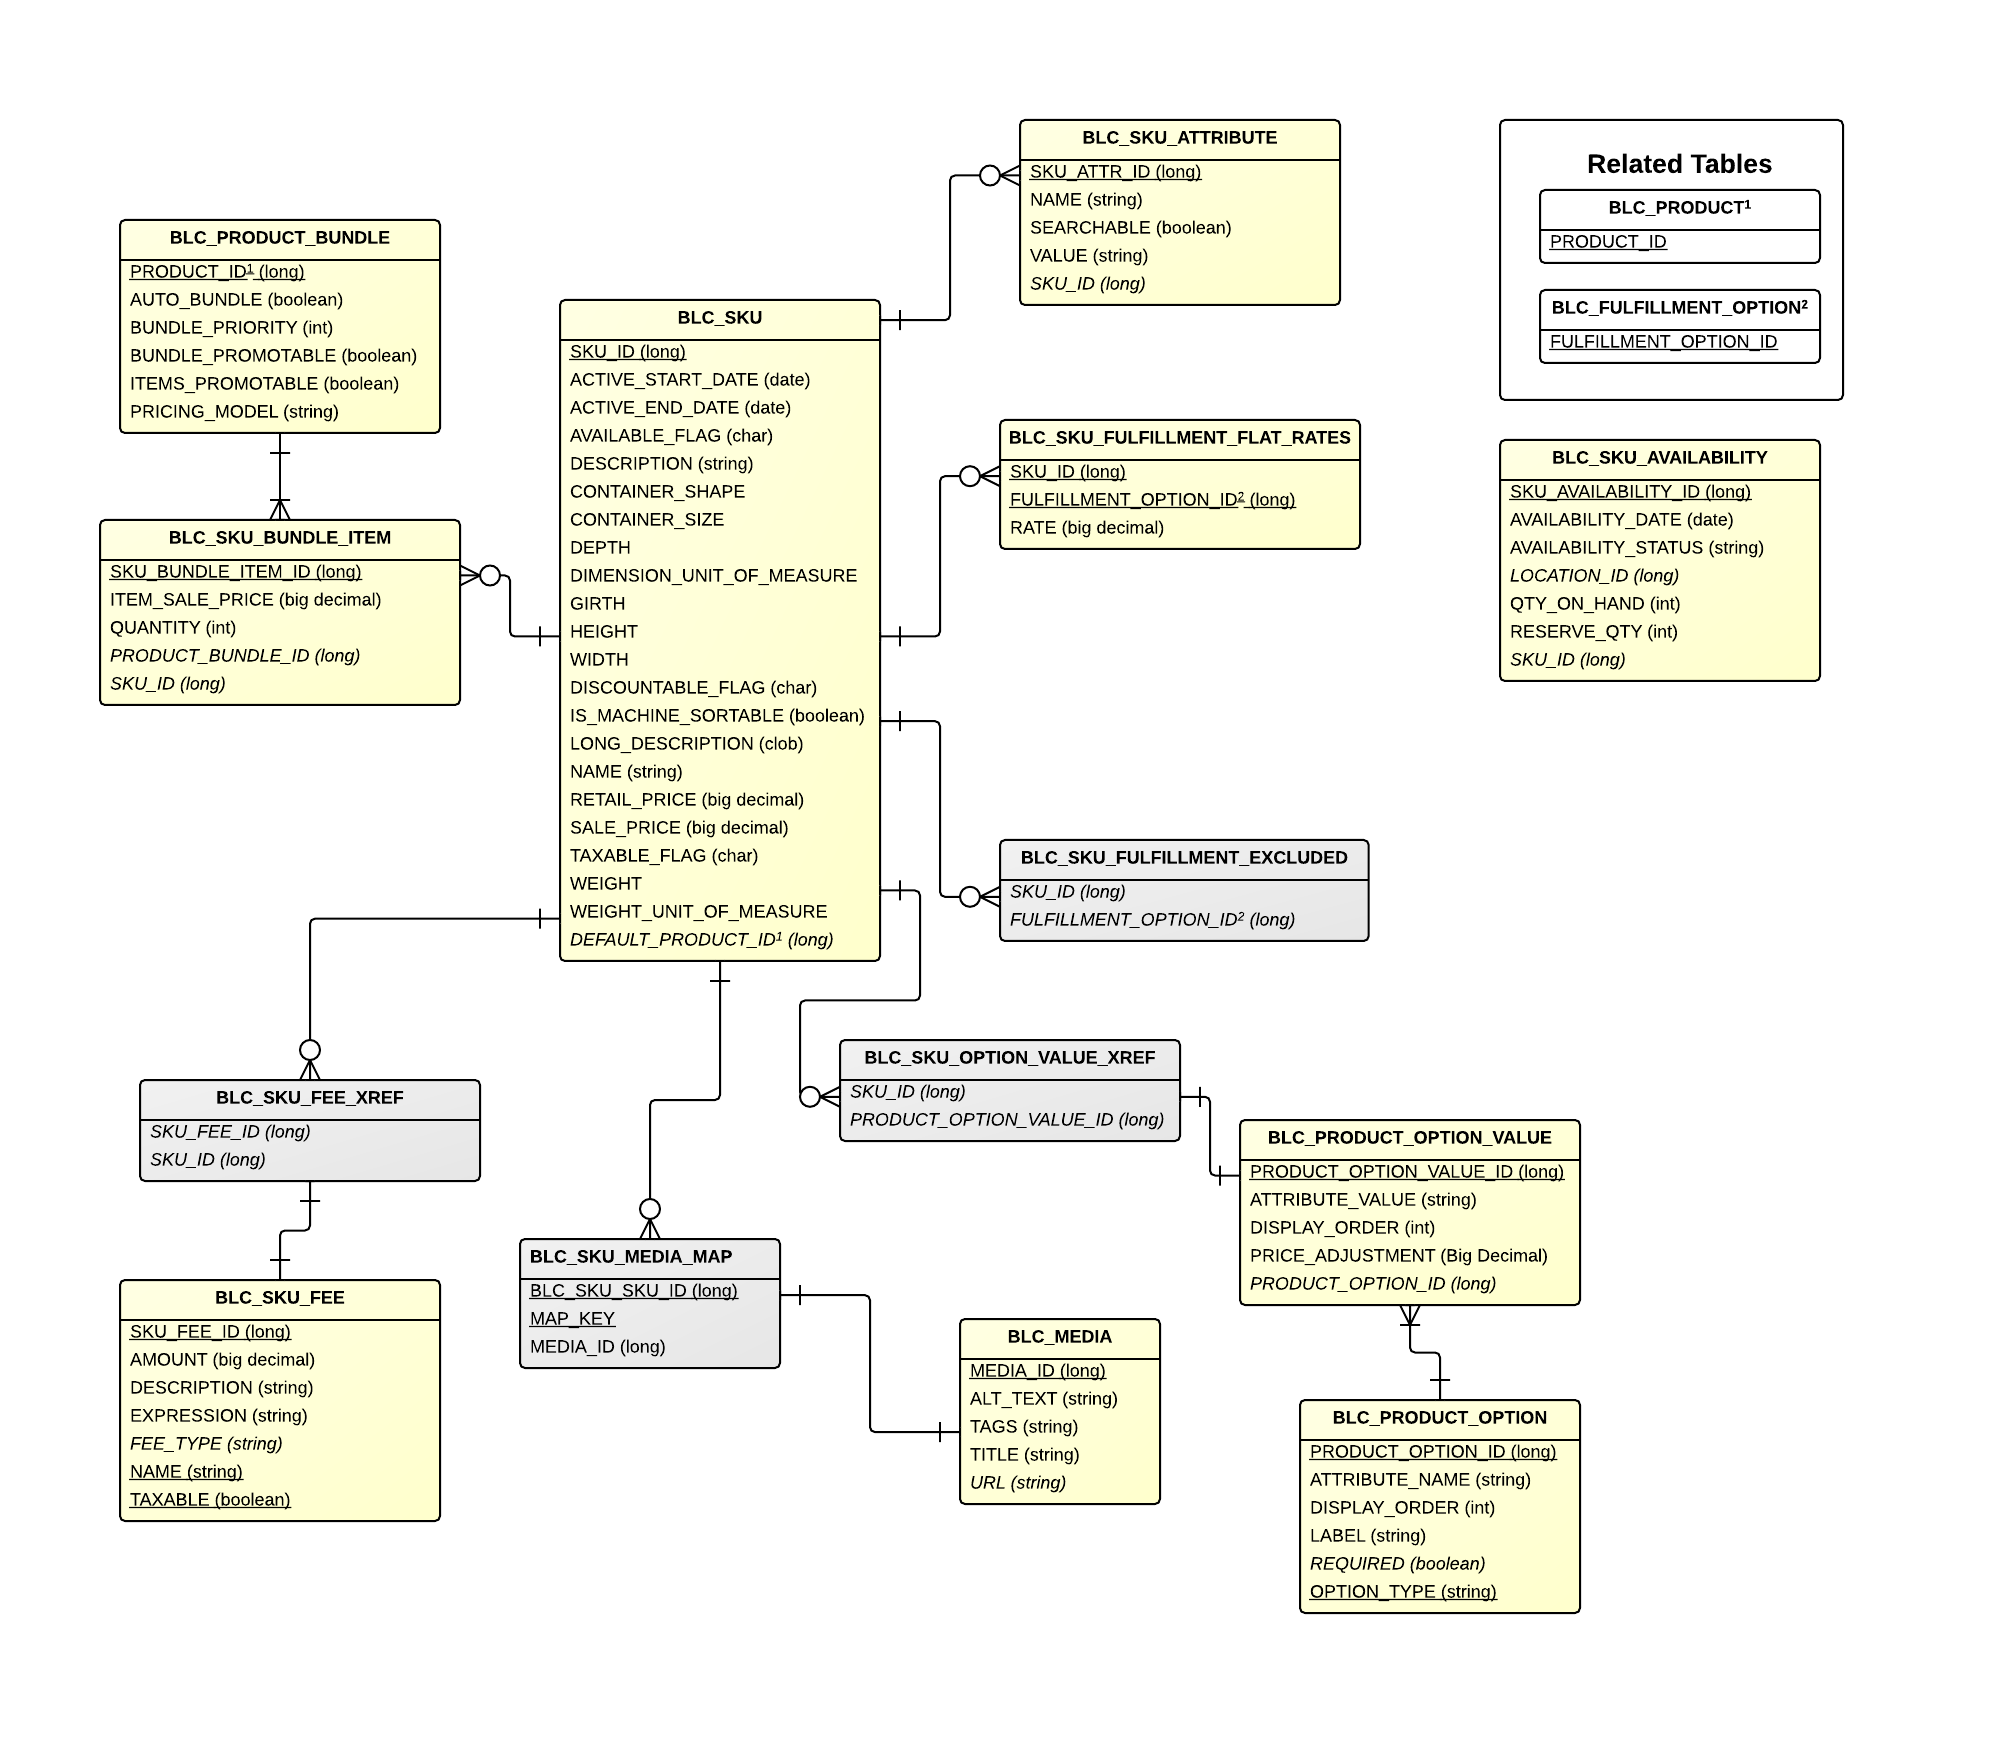
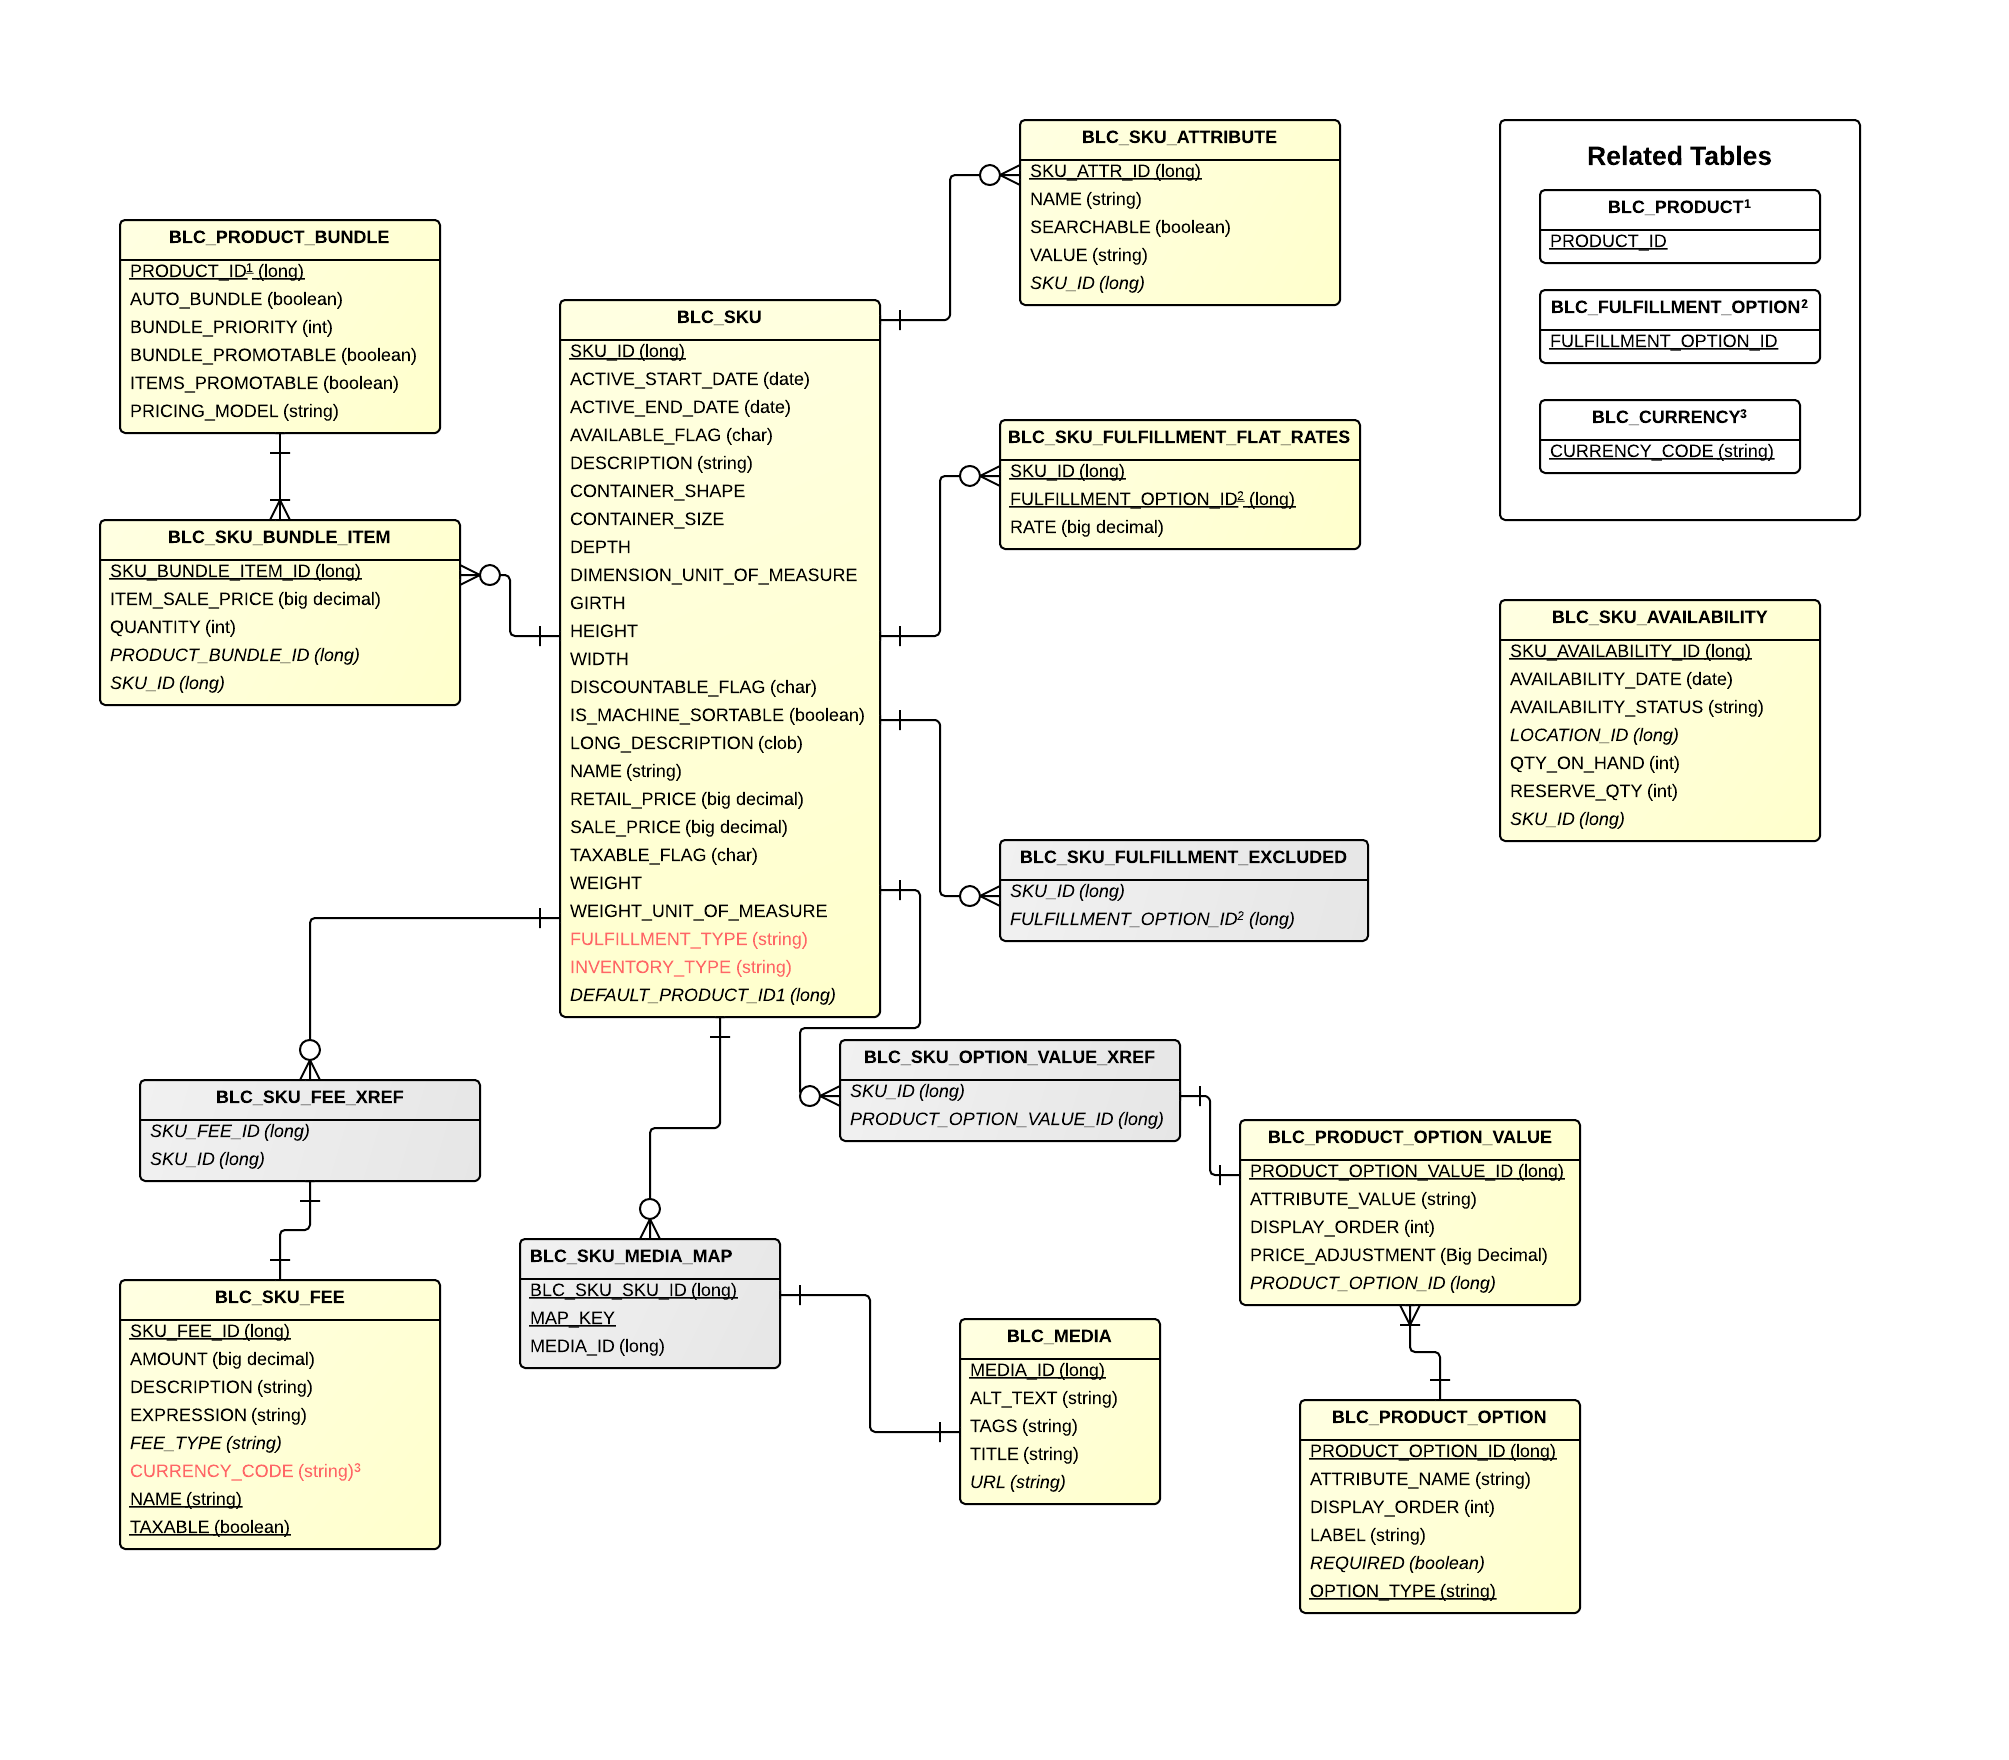
Added fields to SKU

diff --git a/databaseModel/Catalog-Sku.md b/databaseModel/Catalog-Sku.md
@@ -30,3 +30,4 @@
 |:--------------------|:------------------|:----------------------------------------------------|
 |BLC_PRODUCT          | [Product.java](http://javadoc.broadleafcommerce.org/current/framework/org/broadleafcommerce/core/catalog/domain/Product.html)          | A product is a general description of an item that can be sold (for example: a hat). Products are not sold or added to a cart.  |
 |BLC_FULFILLMENT_OPTION | [FulfillmentOption.java](http://javadoc.broadleafcommerce.org/current/framework/org/broadleafcommerce/core/order/domain/FulfillmentOption.html)        | Represents a fulfillment option.  |
+|BLC_CURRENCY                | [BroadleafCurrency.java](http://javadoc.broadleafcommerce.org/current/common/org/broadleafcommerce/common/currency/domain/BroadleafCurrency.html)      | Contains currency information, such as code and if it's default  |

diff --git a/databaseModel/Database-Model.md b/databaseModel/Database-Model.md
@@ -20,8 +20,11 @@
 	- New Fields in `BLC_PAYMENT_RESPONSE_ITEM`: CURRENCY_CODE
 	- New Fields in `BLC_PAYMENT_LOG`: CURRENCY_CODE
 - In [[Tax | Order Tax]]
-	- New Fields in `BLC_TAX_DETAIL`: CURRENCY_CODE	 	
-
+	- New Fields in `BLC_TAX_DETAIL`: CURRENCY_CODE
+- In [[Sku | Catalog Sku]]
+	- New Fields in `BLC_SKU`: FULFILLMENT_TYPE, INVENTORY_TYPE
+	- New Fields in `BLC_SKU_FEE`: CURRENCY_CODE	 	
+	
 ###Diagrams
 - [[Admin | Admin Model]]
 	- [[Change Sets | Admin Change Sets]]
